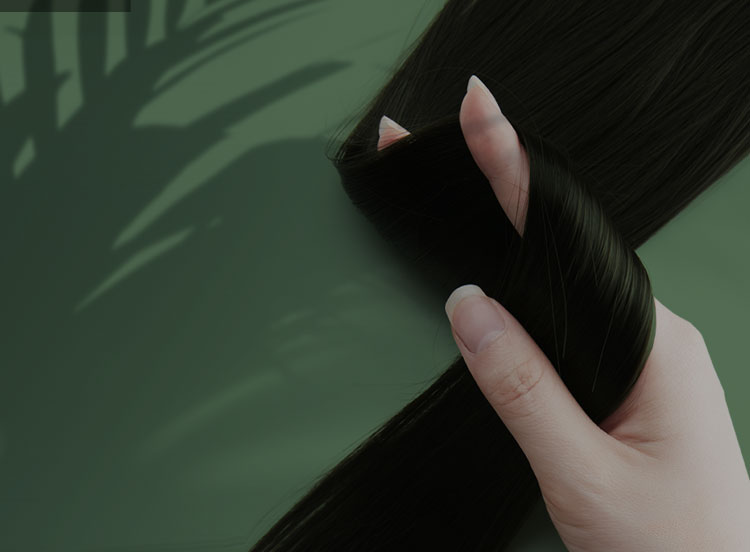
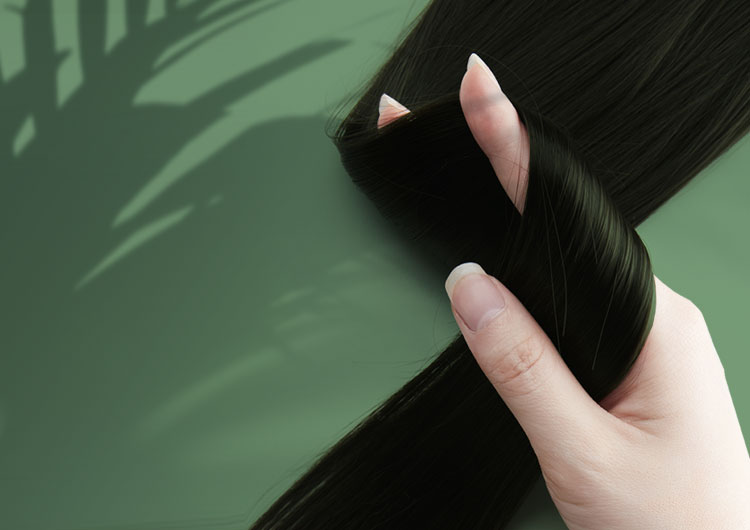
서브 브랜드페이지 bg수정

diff --git a/brand03.html b/brand03.html
@@ -173,7 +173,7 @@
             </li>
         </ul>
         <!-- section top -->
-        <section class="top-bg">q
+        <section class="top-bg">
             <div class="top-bg-cont">
                 <h2 class="ng_ft">BRAND</h2>
                 <p>엑소힐 효능소재</p>
